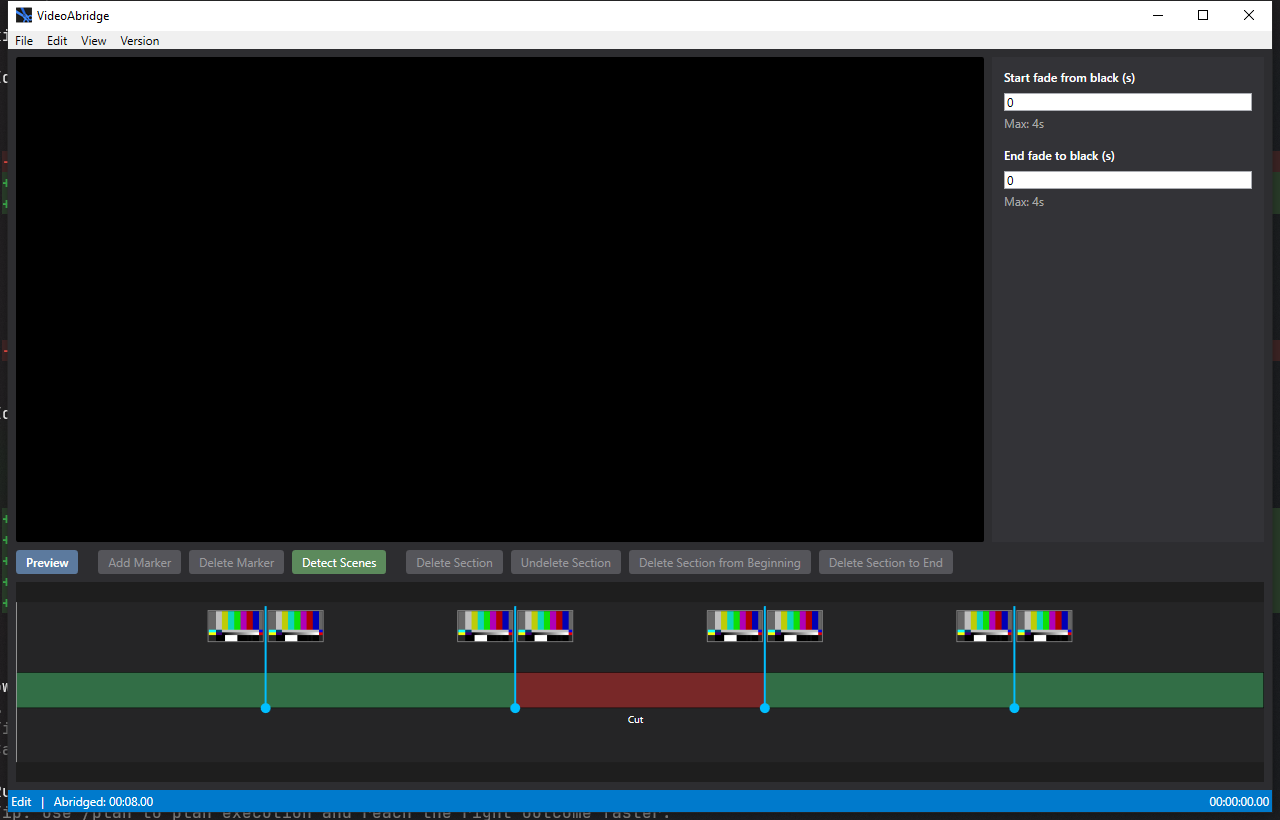
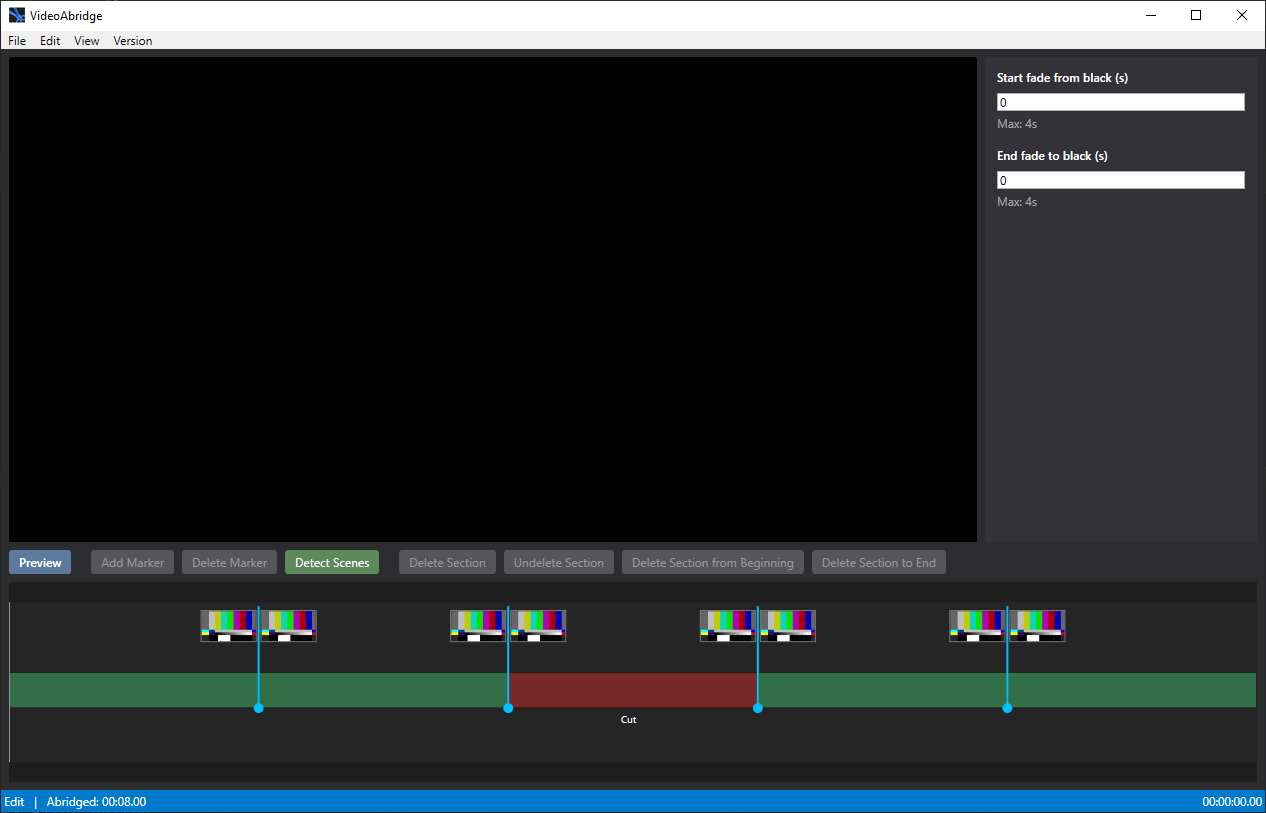
fixed screenshot border capture

diff --git a/tools/ReadmeScreenshot/ScreenshotCapture.cs b/tools/ReadmeScreenshot/ScreenshotCapture.cs
@@ -1,4 +1,6 @@
 using System.Diagnostics;
+using System.Drawing;
+using System.Runtime.InteropServices;
 using FlaUI.Core;
 using FlaUI.Core.AutomationElements;
 using FlaUI.Core.Exceptions;
@@ -11,6 +13,8 @@ namespace ReadmeScreenshot;
 /// <summary>Launches VideoAbridge and captures the main window.</summary>
 internal static class ScreenshotCapture
 {
+    private const int DwmwaExtendedFrameBounds = 9;
+
     public static void Capture(
         string appPath,
         string videoPath,
@@ -53,7 +57,9 @@ internal static class ScreenshotCapture
             window.SetForeground();
             Thread.Sleep(settleDelay);
 
-            FlaUI.Core.Capturing.Capture.Element(window).ToFile(outputPath);
+            // UIA BoundingRectangle includes the DWM drop shadow; use the visible frame only.
+            var bounds = GetVisibleWindowBounds(window);
+            FlaUI.Core.Capturing.Capture.Rectangle(bounds).ToFile(outputPath);
         }
         finally
         {
@@ -67,6 +73,26 @@ internal static class ScreenshotCapture
                     app.Kill();
             }
         }
+    }
+
+    private static Rectangle GetVisibleWindowBounds(Window window)
+    {
+        var handle = new IntPtr(window.Properties.NativeWindowHandle.Value);
+        if (handle == IntPtr.Zero)
+            throw new InvalidOperationException("MainWindow has no native handle.");
+
+        if (DwmGetWindowAttribute(
+                handle,
+                DwmwaExtendedFrameBounds,
+                out var rect,
+                Marshal.SizeOf<NativeRect>()) == 0)
+        {
+            return Rectangle.FromLTRB(rect.Left, rect.Top, rect.Right, rect.Bottom);
+        }
+
+        // Fallback if DWM is unavailable.
+        var bounds = window.BoundingRectangle;
+        return Rectangle.FromLTRB(bounds.Left, bounds.Top, bounds.Right, bounds.Bottom);
     }
 
     private static bool IsMainWindow(Window? main)
@@ -95,5 +121,22 @@ internal static class ScreenshotCapture
         {
             return false;
         }
+    }
+
+    [DllImport("dwmapi.dll")]
+    [DefaultDllImportSearchPaths(DllImportSearchPath.System32)]
+    private static extern int DwmGetWindowAttribute(
+        IntPtr hwnd,
+        int attribute,
+        out NativeRect rect,
+        int size);
+
+    [StructLayout(LayoutKind.Sequential)]
+    private struct NativeRect
+    {
+        public int Left;
+        public int Top;
+        public int Right;
+        public int Bottom;
     }
 }
